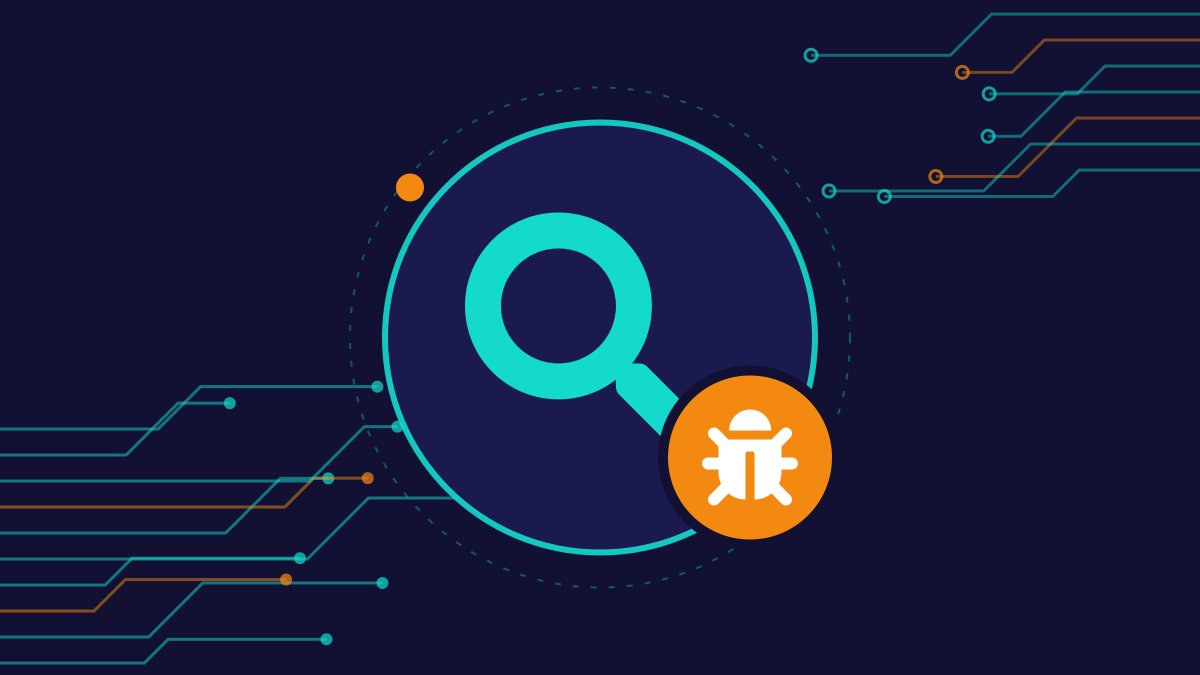
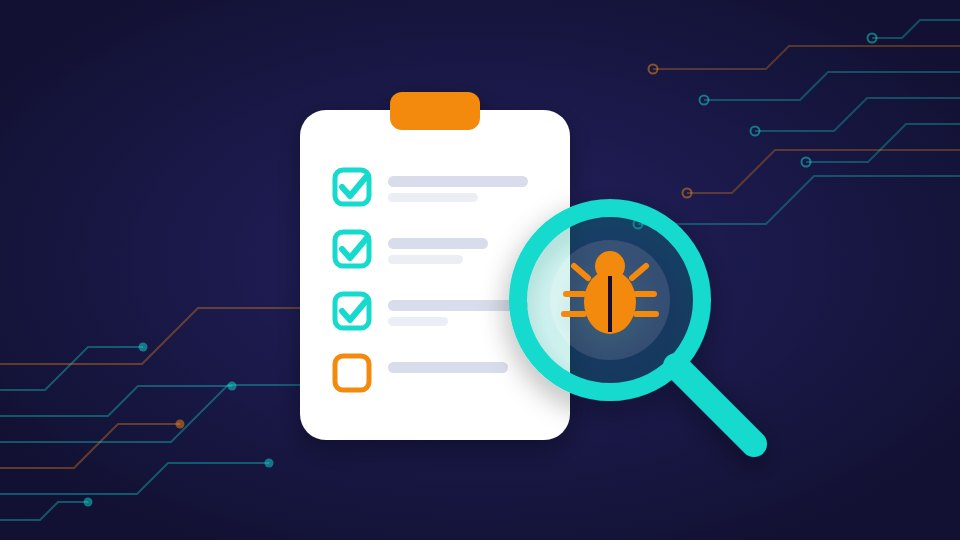
Course cover illustrations for the home page (CTFL, CT-GenAI, SQL)
Claude-Session: https://claude.ai/code/session_012Z8CzSX8Q4pHKqFkYpngFY

diff --git a/site/index.html b/site/index.html
@@ -114,12 +114,12 @@ dialog::backdrop{background:rgba(11,10,36,.6)}
   <div class="hsr"><h2>בחרו קורס</h2><button type="button" class="hsb" id="hsrch"><svg viewBox="0 0 24 24" aria-hidden="true"><circle cx="11" cy="11" r="7"/><path d="M21 21l-4.3-4.3"/></svg>חיפוש בכל הקורסים</button></div>
   <div class="grid">
     <a class="course" href="/courses/ctfl/" data-c="ctfl">
-      <span class="th"><img src="/covers/ctfl.jpg" alt="" loading="lazy"><span class="badge">CTFL 4.0</span><span class="lock" aria-hidden="true"><span><svg viewBox="0 0 24 24"><rect x="4" y="11" width="16" height="10" rx="2"/><path d="M8 11V7a4 4 0 0 1 8 0v4"/></svg></span></span></span>
+      <span class="th"><img src="/covers/ctfl.jpg?v=2" alt="" loading="lazy"><span class="badge">CTFL 4.0</span><span class="lock" aria-hidden="true"><span><svg viewBox="0 0 24 24"><rect x="4" y="11" width="16" height="10" rx="2"/><path d="M8 11V7a4 4 0 0 1 8 0v4"/></svg></span></span></span>
       <span class="bd"><b>ISTQB Foundation Level</b><small>הכנה למבחן ISTQB CTFL 4.0 – יסודות בדיקות התוכנה</small>
       <span class="meta"></span><span class="go">כניסה לקורס ←</span></span>
     </a>
     <a class="course" href="/courses/genai/" data-c="genai">
-      <span class="th"><img src="/covers/genai.jpg" alt="" loading="lazy"><span class="badge">CT-GenAI</span><span class="lock" aria-hidden="true"><span><svg viewBox="0 0 24 24"><rect x="4" y="11" width="16" height="10" rx="2"/><path d="M8 11V7a4 4 0 0 1 8 0v4"/></svg></span></span></span>
+      <span class="th"><img src="/covers/genai.jpg?v=2" alt="" loading="lazy"><span class="badge">CT-GenAI</span><span class="lock" aria-hidden="true"><span><svg viewBox="0 0 24 24"><rect x="4" y="11" width="16" height="10" rx="2"/><path d="M8 11V7a4 4 0 0 1 8 0v4"/></svg></span></span></span>
       <span class="bd"><b>בינה מלאכותית יוצרת בבדיקות תוכנה</b><small>ISTQB Certified Tester – Testing with Generative AI</small>
       <span class="meta"></span><span class="go">כניסה לקורס ←</span></span>
     </a>

diff --git a/scripts/covers/make.py b/scripts/covers/make.py
@@ -1,0 +1,48 @@
+from base import *
+T,O,N,WT='#14DACD','#F38911','#121133','#FFFFFF'
+# --- CTFL: checklist + magnifier + bug ---
+ctfl=f'''
+<g filter="url(#sh)">
+ <rect x="300" y="110" width="270" height="330" rx="26" fill="#fff"/>
+ <rect x="390" y="92" width="90" height="38" rx="12" fill="{O}"/>
+ {''.join(f'<rect x="335" y="{170+i*62}" width="34" height="34" rx="8" fill="none" stroke="{T}" stroke-width="5"/><path d="M342 {187+i*62}l8 9 16-19" fill="none" stroke="{T}" stroke-width="6" stroke-linecap="round" stroke-linejoin="round"/><rect x="388" y="{176+i*62}" width="{140-(i%2)*40}" height="11" rx="5.5" fill="#d9dcea"/><rect x="388" y="{193+i*62}" width="{90-(i%3)*15}" height="9" rx="4.5" fill="#eceef6"/>' if i<3 else f'<rect x="335" y="{170+i*62}" width="34" height="34" rx="8" fill="none" stroke="{O}" stroke-width="5"/><rect x="388" y="{176+i*62}" width="120" height="11" rx="5.5" fill="#d9dcea"/>' for i in range(4))}
+</g>
+<g filter="url(#sh)">
+ <circle cx="610" cy="300" r="92" fill="rgba(20,218,205,.12)" stroke="{T}" stroke-width="18"/>
+ <path d="M676 366l78 78" stroke="{T}" stroke-width="26" stroke-linecap="round"/>
+ <circle cx="610" cy="300" r="60" fill="#fff" opacity=".1"/>
+ <g transform="translate(610 302)">
+  <ellipse rx="26" ry="32" fill="{O}"/><circle cy="-36" r="15" fill="{O}"/>
+  <path d="M-26 -8h-18M26 -8h18M-26 12h-20M26 12h20M-22 -24l-14 -12M22 -24l14 -12" stroke="{O}" stroke-width="6" stroke-linecap="round"/>
+  <path d="M0 -26v56" stroke="{N}" stroke-width="4"/>
+ </g>
+</g>'''
+# --- GenAI: chat bubble with sparkles + neural nodes + check ---
+nodes=[(250,170),(250,270),(250,370),(360,220),(360,320)]
+gen='<g opacity=".9">'+''.join(f'<path d="M{a[0]} {a[1]}L{b[0]} {b[1]}" stroke="{T}" stroke-width="3" opacity=".55"/>' for a in nodes[:3] for b in nodes[3:])+''.join(f'<path d="M{a[0]} {a[1]}L470 {270}" stroke="{T}" stroke-width="3" opacity=".55"/>' for a in nodes[3:])+''.join(f'<circle cx="{x}" cy="{y}" r="15" fill="{N}" stroke="{T}" stroke-width="5"/>' for x,y in nodes)+'</g>'
+def star(cx,cy,r,c): return f'<path d="M{cx} {cy-r}C{cx+r*.18} {cy-r*.18} {cx+r*.18} {cy-r*.18} {cx+r} {cy}C{cx+r*.18} {cy+r*.18} {cx+r*.18} {cy+r*.18} {cx} {cy+r}C{cx-r*.18} {cy+r*.18} {cx-r*.18} {cy+r*.18} {cx-r} {cy}C{cx-r*.18} {cy-r*.18} {cx-r*.18} {cy-r*.18} {cx} {cy-r}Z" fill="{c}"/>'
+gen+=f'''
+<g filter="url(#sh)">
+ <path d="M470 150h250a34 34 0 0 1 34 34v150a34 34 0 0 1-34 34H585l-58 48v-48h-57a34 34 0 0 1-34-34V184a34 34 0 0 1 34-34z" fill="#fff"/>
+ <rect x="478" y="196" width="190" height="14" rx="7" fill="#d9dcea"/><rect x="478" y="224" width="230" height="14" rx="7" fill="#d9dcea"/><rect x="478" y="252" width="150" height="14" rx="7" fill="#eceef6"/>
+ <circle cx="700" cy="318" r="34" fill="{T}"/><path d="M684 318l11 12 22-25" fill="none" stroke="#fff" stroke-width="8" stroke-linecap="round" stroke-linejoin="round"/>
+</g>
+{star(760,130,40,O)}{star(820,205,20,T)}{star(705,95,14,'#fff')}'''
+# --- SQL (ready for the next course): database + table ---
+sql=f'''
+<g filter="url(#sh)">
+ <g transform="translate(330 120)">
+  <path d="M0 40v220c0 26 60 46 130 46s130-20 130-46V40" fill="{T}"/>
+  <ellipse cx="130" cy="40" rx="130" ry="40" fill="#5ff0e6"/>
+  <path d="M0 120c0 26 60 46 130 46s130-20 130-46M0 195c0 26 60 46 130 46s130-20 130-46" fill="none" stroke="{N}" stroke-width="7" opacity=".35"/>
+ </g>
+ <g transform="translate(560 200)">
+  <rect width="250" height="190" rx="18" fill="#fff"/>
+  <rect width="250" height="46" rx="18" fill="{O}"/><rect y="28" width="250" height="18" fill="{O}"/>
+  {''.join(f'<rect x="{18+c*80}" y="{66+r*38}" width="{60}" height="14" rx="7" fill="{"#d9dcea" if (r+c)%2 else "#eceef6"}"/>' for r in range(3) for c in range(3))}
+  <path d="M0 98h250M0 136h250M83 46v144M166 46v144" stroke="#e1e3ef" stroke-width="2"/>
+ </g>
+</g>'''
+for n,s in (('ctfl',ctfl),('genai',gen),('sql',sql)):
+    open(f'{n}.svg','w').write(page(s))
+print('ok')

diff --git a/scripts/covers/base.py b/scripts/covers/base.py
@@ -1,0 +1,15 @@
+import math
+W,H=960,540
+def traces():
+    s='';col=lambda i:'#F38911' if i%4==2 else '#14DACD'
+    for i in range(7):
+        y=520-i*26;a=40+((i*97)%160);b=18+((i*53)%40);c=30+((i*71)%110)
+        s+=f'<path d="M0 {y}H{a}l{b} -{b}H{a+b+c}" stroke="{col(i)}" stroke-width="2" fill="none" opacity=".35"/><circle cx="{a+b+c}" cy="{y-b}" r="4.5" fill="{col(i)}" opacity=".5"/>'
+        y2=20+i*26;a2=40+((i*131)%170);b2=18+((i*41)%36);c2=30+((i*83)%100)
+        s+=f'<path d="M{W} {y2}H{W-a2}l-{b2} {b2}H{W-a2-b2-c2}" stroke="{col(i+1)}" stroke-width="2" fill="none" opacity=".3"/><circle cx="{W-a2-b2-c2}" cy="{y2+b2}" r="4.5" fill="none" stroke="{col(i+1)}" stroke-width="2" opacity=".5"/>'
+    return s
+def page(inner):
+    return f'''<svg xmlns="http://www.w3.org/2000/svg" width="{W}" height="{H}" viewBox="0 0 {W} {H}">
+<defs><radialGradient id="g" cx="50%" cy="48%" r="60%"><stop offset="0" stop-color="#232161"/><stop offset="1" stop-color="#121133"/></radialGradient>
+<filter id="sh" x="-20%" y="-20%" width="140%" height="140%"><feDropShadow dx="0" dy="10" stdDeviation="14" flood-color="#000" flood-opacity=".35"/></filter></defs>
+<rect width="{W}" height="{H}" fill="url(#g)"/>{traces()}{inner}</svg>'''

diff --git a/CHANGELOG.md b/CHANGELOG.md
@@ -2,6 +2,7 @@
 
 ## v3.2.1 · 20.11.2026
 - CTFL: תוכן העניינים באתר (כפתור "תוכן עניינים") חזר – הוא נמחק בטעות בבנייה מחדש של v3.0.2. סקריפט הבנייה שומר אותו מעכשיו.
+- עמוד ראשי: תמונה מותאמת לכל קורס במלבנים (בדיקות תוכנה, בינה מלאכותית; מוכנה גם תמונה ל-SQL). המקור: scripts/covers.
 - CTFL v3.2.1, CT-GenAI v1.3.1.
 
 ## v3.2 · 20.11.2026 — חיפוש ונעילה בשרת
